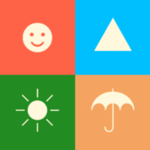
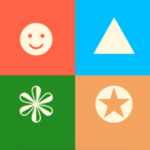
Updates description and app details

diff --git a/index.html b/index.html
@@ -6,10 +6,10 @@
     <meta http-equiv="X-UA-Compatible" content="IE=edge">
     <meta name="viewport" content="initial-scale=1.0, maximum-scale=1.0, minimum-scale=1.0, user-scalable=no" />
     <meta name="MobileOptimized" content="width">
-    <meta name="description" content="Colors and Shapes">
+    <meta name="description" content="Colors and Shapes is an observe and learn educational app. Toddlers need to observe changing shapes and colors. Various color stimulates specific region of the brain, thereby improving the cognitive skills of your toddler">
     <meta name="HandheldFriendly" content="true">
     <meta name="apple-mobile-web-app-capable" content="yes">
-    <meta name="keywords" content="Fun way for kids to learn colors and shapes. Helps in cognitive development.">
+    <meta name="keywords" content="Colors, Shape, Kids, Learn, Light, Bright, Red, Green, Blue, Rainbow,">
     <link rel="apple-touch-icon" sizes="57x57" href="./manifest/apple-icon-57x57.png">
     <link rel="apple-touch-icon" sizes="60x60" href="./manifest/apple-icon-60x60.png">
     <link rel="apple-touch-icon" sizes="72x72" href="./manifest/apple-icon-72x72.png">
@@ -45,10 +45,10 @@
                 <div>&#9650;</div>
             </div>
             <div style="background-color: forestgreen">
-                <div>&#9728;</div>
+                <div>&#10051;</div>
             </div>
             <div style="background-color: sandybrown">
-                <div>&#9730;</div>
+                <div>&#10026;</div>
             </div>
         </div>
 

diff --git a/README.md b/README.md
@@ -1,28 +1,19 @@
-### Settings
+# Colors and Shapes
 
-1. Splash screen (With Random background-color)
-2. Sounds (5 variety)
-3. Speed of transition
-4. No shape; solid color
-5. RGB Only
-6. Full Screen
-7. Only Geometric Shape
-8. Two taps on shape screen; goes to the main screen
+Colors stimulates various regions of your kid's brain. They can improve her nervous system, heart functioning, release happy hormone and can even help in digestion. Likewise, shapes too have great impact on a human being. A circular shape triggers friendship and love, square forges strength and power and some shape power, happiness, rhythm, courage and so on.
 
-### References
+"Colors and shapes" is an observe and learn activity for your toddler. Just by seeing the changing colors and shapes, the kids learn and grow.
+
+### Features
+
+- RGB, Rainbow and Multiple Colors
+- Shapes could be Geometrical, Random abstracts or it could be only colors
+- You could play optional music to keep your kid engaged
+- Shapes change automatically or on tap of the screen
+
+### Credits
 
 1. Colors from: http://colours.neilorangepeel.com/
-2. Shapes from: http://www.w3schools.com/charsets/ref_utf_geometric.asp
-3. Favicon generated via: http://www.favicon-generator.org/
-4. Phone gap build: http://docs.build.phonegap.com/en_US/introduction_getting_started.md.html#Getting%20Started%20with%20Build
-
-### To Do
-- Test it on Chrome Desktop/iPad/Android/iPhone
-- Test JS/CSS/HTML Performance
-- Get a good title and description
-- Get android signing key
-
-### For Browser
-- Update the theme / Change the theme color (via js)
-- Set the icons
-- Appcahce Manifest / Service Worker
+2. Favicon generated via: http://www.favicon-generator.org/
+3. Shapes from: http://www.w3schools.com/charsets/ref_utf_geometric.asp
+4. Music created using 4Beats on iPad
